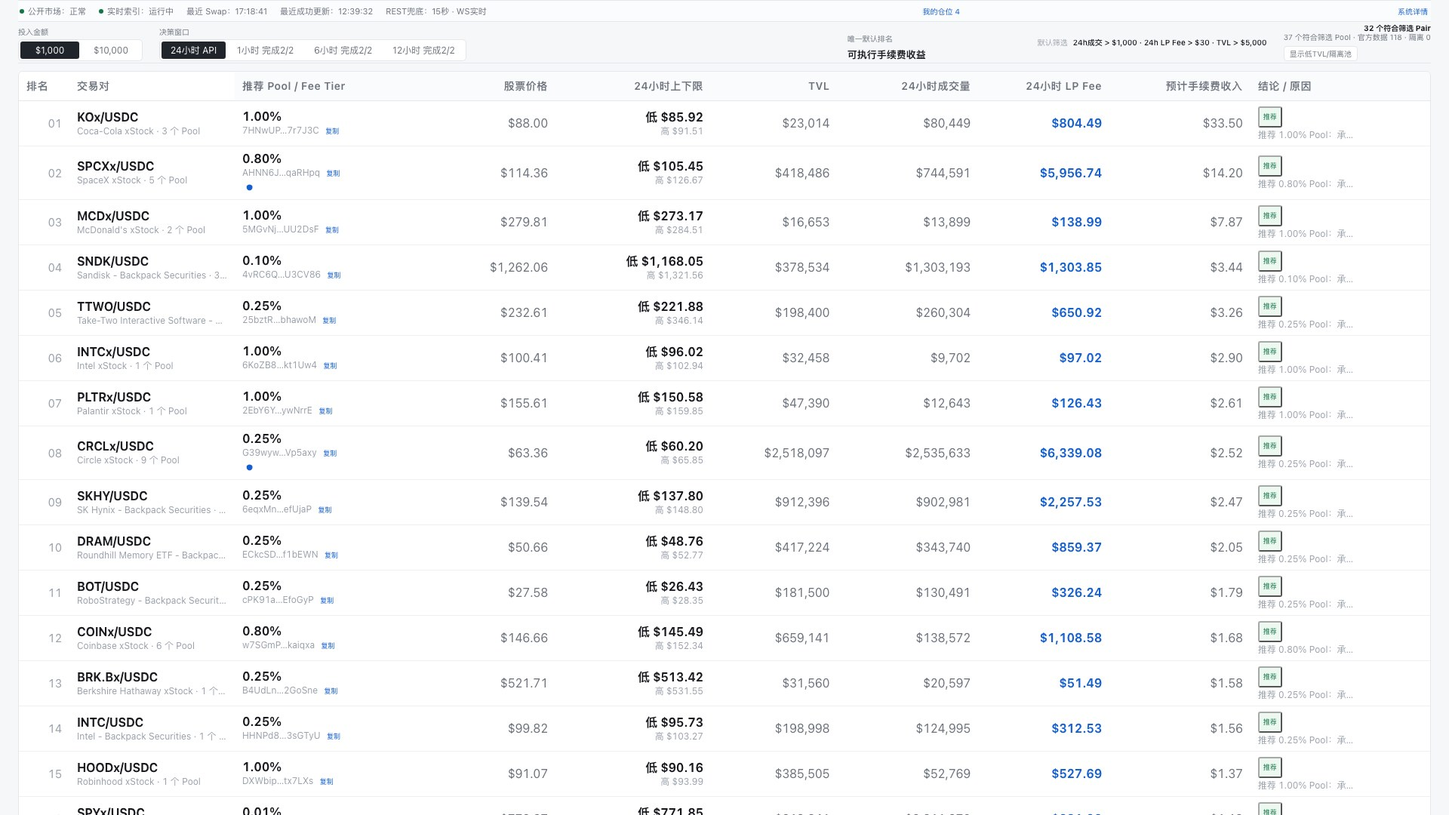
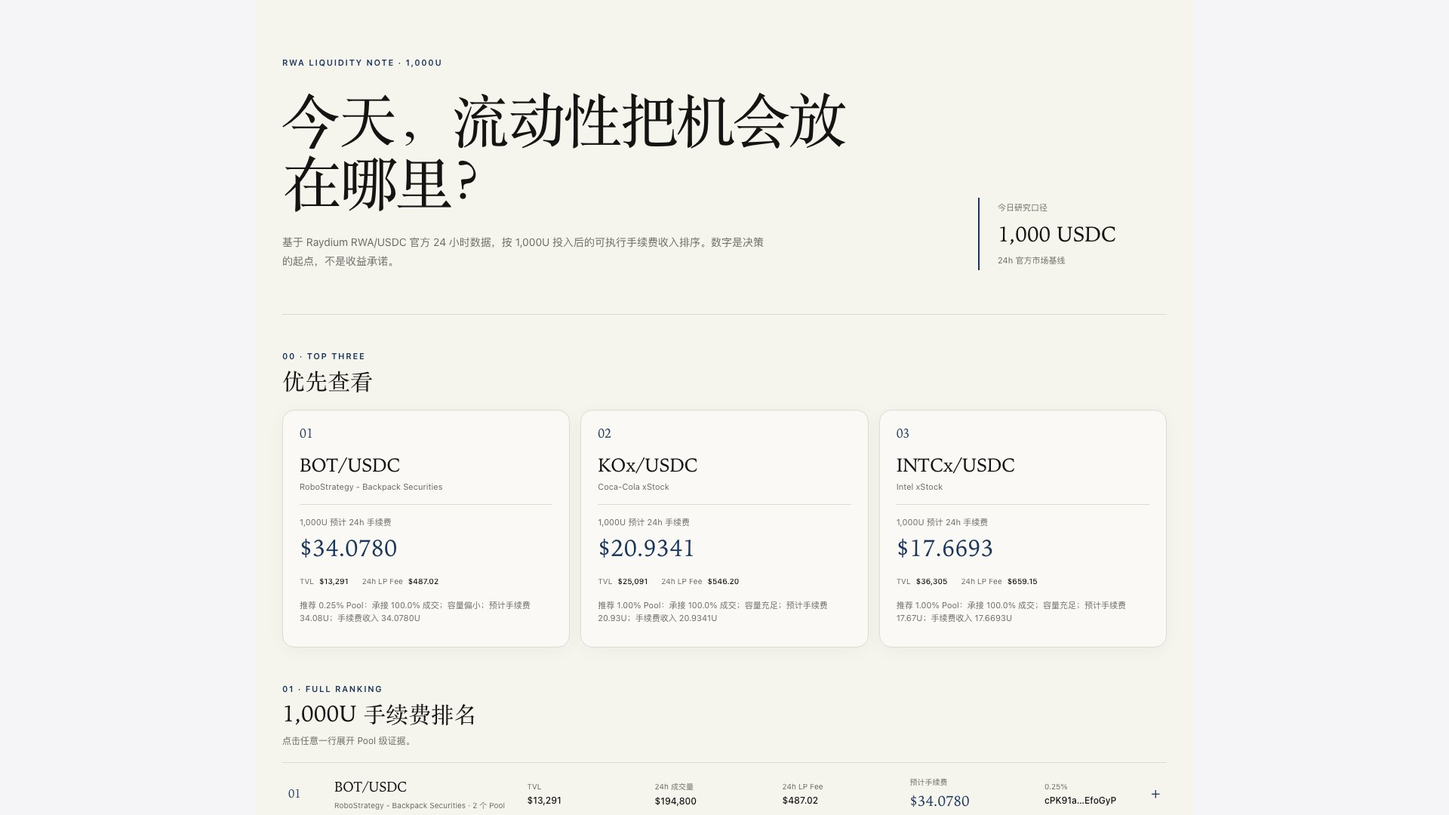
refactor ranking UI into mobile research note

diff --git a/app/dashboard-client.tsx b/app/dashboard-client.tsx
@@ -52,11 +52,6 @@ function shortAddress(value: string | null | undefined) {
   return `${value.slice(0, 6)}…${value.slice(-6)}`;
 }
 
-function clock(value: string | null | undefined) {
-  if (!value) return "暂无时间";
-  return new Intl.DateTimeFormat("zh-CN", { hour: "2-digit", minute: "2-digit", second: "2-digit", hour12: false }).format(new Date(value));
-}
-
 function decisionLabel(value: Decision) {
   return value === "RECOMMEND" ? "推荐" : value === "WATCH" ? "观察" : value === "REJECT" ? "放弃" : "短窗口回补中";
 }
@@ -113,33 +108,6 @@ function CopyButton({ value, label, testId, onCopied }: { value: string | null |
   return <button className="copy-button" data-testid={testId} title={value} onClick={(event) => { event.stopPropagation(); void copyText(value, () => { setCopied(true); onCopied?.(label); window.setTimeout(() => setCopied(false), 1400); }); }}>{copied ? "已复制" : label}</button>;
 }
 
-function StatusDot({ state }: { state: "good" | "warn" | "muted" }) {
-  return <i className={`terminal-dot ${state}`} aria-hidden="true" />;
-}
-
-function WindowButton({ view, active, onClick }: { view: RankingWindowStatus; active: boolean; onClick: () => void }) {
-  const suffix = view.key === "24h" && view.status === "COMPLETE"
-    ? " API"
-    : view.completedPools !== null && view.targetPools !== null
-      ? ` 完成${view.completedPools}/${view.targetPools}`
-      : view.progress !== null ? ` ${view.progress}%` : "";
-  const disabled = view.status === "UNAVAILABLE";
-  return <button className={`terminal-window ${active ? "active" : ""} ${disabled ? "disabled" : ""}`} disabled={disabled} onClick={onClick} title={disabled ? `${view.label}：等待数据源` : `${view.label}：${view.state} · ${view.universeLabel}${view.progress !== null ? ` · 时间覆盖 ${view.progress}%` : ""}`} data-testid={`window-${view.key}`}>{view.label}{suffix}</button>;
-}
-
-function StatusBar({ snapshot, lastSuccessfulRefresh, onSystem, onWallet }: { snapshot: DashboardSnapshot; lastSuccessfulRefresh: string | null; onSystem: () => void; onWallet: () => void }) {
-  return <div className="terminal-statusbar">
-    <span><StatusDot state={snapshot.snapshotSource === "LAST_KNOWN_GOOD" ? "warn" : "good"} />公开市场：{snapshot.snapshotSource === "LAST_KNOWN_GOOD" ? "缓存" : "正常"}</span>
-    <span><StatusDot state={snapshot.websocket.status === "在线" ? "good" : "warn"} />实时索引：{snapshot.websocket.status === "在线" ? "运行中" : "降级"}</span>
-    <span>最近 Swap：{clock(snapshot.lastSwap?.blockTime)}</span>
-    <span>最近成功更新：{clock(lastSuccessfulRefresh)}</span>
-    <span className="auto-refresh-status">REST兜底：15秒 · WS实时</span>
-    {snapshot.snapshotSource === "LAST_KNOWN_GOOD" ? <span className="cache-notice">更新失败，继续显示上次成功数据</span> : null}
-    <button className="system-button" onClick={onWallet} aria-label={snapshot.wallet.configured ? "修改或添加只读钱包" : undefined} data-testid="wallet-control">{snapshot.wallet.configured ? `我的仓位 ${snapshot.positions.length}` : "添加只读钱包"}</button>
-    <button className="system-button" onClick={onSystem}>系统详情</button>
-  </div>;
-}
-
 function MetricCell({ metric, coverage, empty = "等待模型输入" }: { metric: RankingMetric; coverage: RankingWindowStatus; empty?: string }) {
   const detail = metric.missing[0] ?? (coverage.key === "24h" ? empty : "回补中");
   return <DisplayValue value={metric.value} missing={detail} format={(value) => money(value as number)} className={metric.value === null ? "metric-unavailable" : "metric-ready"} />;
@@ -163,22 +131,34 @@ function PoolSubtable({ pair, positionPoolIds, onCopied, showNet }: { pair: Rank
   </div>;
 }
 
-function RankingRow({ pair, rank, expanded, onToggle, onEvidence, positionPoolIds, onCopied, showNet }: { pair: RankingPair; rank: number; expanded: boolean; onToggle: () => void; onEvidence: () => void; positionPoolIds: Set<string>; onCopied: (label: string) => void; showNet: boolean }) {
+function FeaturedOpportunity({ pair, rank, onEvidence }: { pair: RankingPair; rank: number; onEvidence: () => void }) {
   const pool = pair.recommendedPool ?? pair.allPools[0] ?? null;
-  const isRanked = rank > 0 && pool?.universeStatus === "ACTIVE_INDEXED" && (pair.estimatedFeeIncome.value !== null || Boolean(pool.lpFee24h !== null && pool.tvl !== null && pool.tvl > 0));
+  return <button className="kami-feature-card" onClick={onEvidence} data-testid={`featured-rank-${rank}`}>
+    <span className="kami-rank">0{rank}</span>
+    <span className="kami-feature-title"><strong>{pair.symbol}</strong><small>{pair.underlying}</small></span>
+    <span className="kami-feature-yield"><small>1,000U 预计 24h 手续费</small><strong>{money(pair.estimatedFeeIncome.value, 4)}</strong></span>
+    <span className="kami-feature-metrics"><span>TVL <b>{money(pair.tvl ?? pool?.tvl ?? null, 0)}</b></span><span>24h LP Fee <b>{money(pair.lpFee ?? pool?.lpFee ?? null, 2)}</b></span></span>
+    <span className="kami-feature-reason">{pair.shortReason}</span>
+  </button>;
+}
+
+function RankingListItem({ pair, rank, expanded, onToggle, onEvidence, positionPoolIds, onCopied, showNet }: { pair: RankingPair; rank: number; expanded: boolean; onToggle: () => void; onEvidence: () => void; positionPoolIds: Set<string>; onCopied: (label: string) => void; showNet: boolean }) {
+  const pool = pair.recommendedPool ?? pair.allPools[0] ?? null;
   const rowId = pair.symbol.replace(/[^a-zA-Z0-9]+/g, "-");
-  return <>
-    <tr className={`ranking-row ${expanded ? "expanded" : ""}`} onClick={onToggle} tabIndex={0} onKeyDown={(event) => { if (event.key === "Enter" || event.key === " ") { event.preventDefault(); onToggle(); } }} data-testid={`pair-row-${rowId}`}>
-      <td className="rank numeric">{isRanked ? String(rank).padStart(2, "0") : "—"}</td>
-      <td><strong>{pair.symbol}</strong><small>{pair.underlying} · {pair.allPools.length} 个 Pool</small></td>
-      <td>{pool ? <><strong>{pool.feeTier ?? "Fee Tier暂无"}</strong><small title={pool.poolAddress}>{shortAddress(pool.poolAddress)} <CopyButton value={pool.poolAddress} label="复制" testId={`main-copy-pool-${pool.poolAddress}`} onCopied={onCopied} /></small>{positionPoolIds.has(pool.poolAddress) ? <span className="position-icon" title="我的仓位" aria-label="我的仓位">●</span> : null}</> : <span>Pool地址暂无</span>}</td>
-      <td className="numeric">{stockPrice(pair.currentPrice ?? pool?.currentPrice ?? null)}</td><td className="numeric price-band-cell">{priceBand(pair.price24hLow ?? pool?.price24hLow ?? null, pair.price24hHigh ?? pool?.price24hHigh ?? null)}</td>
-      <td className="numeric">{money(pair.tvl ?? pool?.tvl ?? null, 0, "TVL暂无")}</td><td className="numeric">{money(pair.volume ?? pool?.volume ?? null, 0, pair.coverage.key === "24h" ? "成交量暂无" : "回补中")}</td><td className="numeric">{money(pair.lpFee ?? pool?.lpFee ?? null, 2, pair.coverage.key === "24h" ? "LP Fee暂无" : "回补中")}</td>
-      <td className="numeric"><MetricCell metric={pair.estimatedFeeIncome} coverage={pair.coverage} empty="未计算" /></td>
-      <td><button className={`verdict ${decisionClass(pair.decision)}`} onClick={(event) => { event.stopPropagation(); onEvidence(); }} data-testid={`decision-${rowId}`}>{decisionLabel(pair.decision)}</button><small className="row-reason" title={pair.shortReason}>{Array.from(pair.shortReason).slice(0, 18).join("")}</small></td>
-    </tr>
-    {expanded ? <tr className="expanded-row"><td colSpan={10}><PoolSubtable pair={pair} positionPoolIds={positionPoolIds} onCopied={onCopied} showNet={showNet} /></td></tr> : null}
-  </>;
+  return <article className={`kami-ranking-item ${expanded ? "expanded" : ""}`}>
+    <button className="kami-ranking-main ranking-row" onClick={onToggle} data-testid={`pair-row-${rowId}`}>
+      <span className="kami-list-rank">{rank > 0 ? String(rank).padStart(2, "0") : "—"}</span>
+      <span className="kami-list-asset"><strong>{pair.symbol}</strong><small>{pair.underlying} · {pair.allPools.length} 个 Pool</small></span>
+      <span className="kami-list-metric"><small>TVL</small><strong>{money(pair.tvl ?? pool?.tvl ?? null, 0)}</strong></span>
+      <span className="kami-list-metric"><small>24h 成交量</small><strong>{money(pair.volume ?? pool?.volume ?? null, 0)}</strong></span>
+      <span className="kami-list-metric"><small>24h LP Fee</small><strong>{money(pair.lpFee ?? pool?.lpFee ?? null, 2)}</strong></span>
+      <span className="kami-list-estimate"><small>预计手续费</small><strong>{money(pair.estimatedFeeIncome.value, 4)}</strong></span>
+      <span className="kami-list-pool"><small>{pool?.feeTier ?? "Fee Tier暂无"}</small><b>{shortAddress(pool?.poolAddress)}</b></span>
+      <span className="kami-list-arrow" aria-hidden="true">{expanded ? "−" : "+"}</span>
+    </button>
+    <div className="kami-list-reason"><span>{pair.shortReason}</span><button onClick={onEvidence} data-testid={`decision-${rowId}`}>查看依据</button></div>
+    {expanded ? <PoolSubtable pair={pair} positionPoolIds={positionPoolIds} onCopied={onCopied} showNet={showNet} /> : null}
+  </article>;
 }
 
 function EvidenceDrawer({ pair, onClose }: { pair: RankingPair; onClose: () => void }) {
@@ -194,85 +174,14 @@ function EvidenceDrawer({ pair, onClose }: { pair: RankingPair; onClose: () => v
   </aside></div>;
 }
 
-function WalletModal({ snapshot, onClose, onUpdated }: { snapshot: DashboardSnapshot; onClose: () => void; onUpdated: (snapshot: DashboardSnapshot) => void }) {
-  const [address, setAddress] = useState(snapshot.wallet.address ?? "");
-  const [busy, setBusy] = useState(false);
-  const [message, setMessage] = useState("");
-  const [error, setError] = useState("");
-  async function save() {
-    setBusy(true); setError(""); setMessage("");
-    try {
-      const response = await fetch("/api/wallet", { method: "POST", headers: { "content-type": "application/json" }, body: JSON.stringify({ address }) });
-      const payload = await response.json() as { error?: string; wallet?: { scanning?: boolean }; snapshot?: DashboardSnapshot };
-      if (!response.ok || !payload.snapshot) { setError(payload.error ?? "保存失败"); return; }
-      onUpdated(payload.snapshot);
-      if (payload.wallet?.scanning) setMessage("已保存，仓位扫描已在后台开始；稍后可点击重新扫描"); else { setMessage(`已保存，发现 ${payload.snapshot.positions.length} 个仓位`); onClose(); }
-    } catch { setError("钱包服务数据源不可用，请稍后重试"); } finally { setBusy(false); }
-  }
-  async function remove() {
-    setBusy(true); setError("");
-    try { const response = await fetch("/api/wallet", { method: "DELETE" }); const payload = await response.json() as { snapshot?: DashboardSnapshot }; if (payload.snapshot) { onUpdated(payload.snapshot); onClose(); } } catch { setError("钱包状态更新失败，请稍后重试"); } finally { setBusy(false); }
-  }
-  async function rescan() {
-    setBusy(true); setError("");
-    try { const response = await fetch("/api/wallet/rescan", { method: "POST" }); const payload = await response.json() as { error?: string; snapshot?: DashboardSnapshot }; if (!response.ok || !payload.snapshot) { setError(payload.error ?? "扫描失败"); return; } onUpdated(payload.snapshot); setMessage(`扫描完成，发现 ${payload.snapshot.positions.length} 个仓位`); } catch { setError("仓位扫描数据源不可用，请稍后重试"); } finally { setBusy(false); }
-  }
-  return <div className="modal-backdrop" onClick={onClose}><div className="wallet-modal" onClick={(event) => event.stopPropagation()}><div className="modal-title"><div><small>我的仓位（可选）</small><h2>{snapshot.wallet.configured ? "修改只读钱包" : "添加只读钱包"}</h2></div><button className="close-button" onClick={onClose} aria-label="关闭钱包弹窗">×</button></div><label htmlFor="wallet-address">公开 Solana 地址</label><input id="wallet-address" value={address} onChange={(event) => setAddress(event.target.value)} placeholder="输入 Base58 公钥地址" autoComplete="off" spellCheck={false} /><p className="wallet-safe-note">只读取公开链上仓位，不请求签名。不接受私钥或助记词。</p>{error ? <p className="form-error">{error}</p> : null}{message ? <p className="form-success">{message}</p> : null}<div className="modal-actions"><button className="primary-button" onClick={() => void save()} disabled={busy}>{busy ? "处理中…" : "保存并扫描"}</button><button className="secondary-button" onClick={onClose} disabled={busy}>取消</button>{snapshot.wallet.configured ? <><button className="secondary-button" onClick={() => void rescan()} disabled={busy}>重新扫描</button><button className="danger-button" onClick={() => void remove()} disabled={busy}>移除地址</button></> : null}</div></div></div>;
-}
-
-function SystemDrawer({ snapshot, onClose }: { snapshot: DashboardSnapshot; onClose: () => void }) {
-  const access = snapshot.localAccess;
-  const statusText = (key: string, value: string) => {
-    const map: Record<string, string> = {
-      PUBLIC_MARKET_STATUS: "公开市场",
-      SHORT_WINDOW_ANALYTICS_STATUS: "短窗口分析",
-      RPC_VERIFICATION_STATUS: "链上账户核验",
-      REALTIME_INDEXING_STATUS: "实时索引",
-      WALLET_POSITION_STATUS: "我的仓位",
-      NET_YIELD_STATUS: "净收益模型",
-    };
-    const values: Record<string, string> = {
-      PUBLIC_API_MARKET_READY: "已就绪",
-      SHORT_WINDOW_ANALYTICS_UNAVAILABLE: "正在补齐历史",
-      SHORT_WINDOW_ANALYTICS_READY: "已就绪",
-      RPC_VERIFICATION_UNAVAILABLE: "等待 RPC 核验",
-      RPC_VERIFICATION_DEGRADED: "部分核验",
-      RPC_VERIFICATION_PARTIAL: "部分核验",
-      REALTIME_INDEXING_AVAILABLE: "运行中",
-      REALTIME_INDEXING_DEGRADED: "降级运行",
-      WALLET_POSITION_OPTIONAL_CONFIGURED: "已配置（可选）",
-      WALLET_POSITION_OPTIONAL_NOT_CONFIGURED: "未配置（不影响公开市场）",
-      NET_YIELD_UNAVAILABLE: "尚未接入 IL 与滑点成本",
-      NET_YIELD_AVAILABLE: "已就绪",
-    };
-    if (key === "SHORT_WINDOW_ANALYTICS_STATUS" && value.includes("完成")) return `短窗口：${value}`;
-    return `${map[key] ?? key}：${values[value] ?? value}`;
-  };
-  return <div className="drawer-backdrop" onClick={onClose}><aside className="evidence-drawer system-drawer" onClick={(event) => event.stopPropagation()}><div className="drawer-title"><div><small>连接与数据状态</small><h2>系统详情</h2></div><button className="close-button" onClick={onClose} aria-label="关闭系统详情">×</button></div><div className="system-list">{Object.entries(snapshot.statusReport).map(([key, value]) => <div key={key}><span>{statusText(key, value)}</span></div>)}</div>{access ? <div className="lan-access"><strong>局域网访问地址</strong><div><code>{access.lanUrl ?? "未检测到局域网地址"}</code><CopyButton value={access.lanUrl} label="复制地址" onCopied={() => undefined} /></div>{access.lanUrl ? <img className="lan-qr" src={`https://api.qrserver.com/v1/create-qr-code/?size=160x160&data=${encodeURIComponent(access.lanUrl)}`} alt="局域网访问二维码" /> : null}<small>本机：{access.localUrl} · 需与 iPad 连接同一 Wi‑Fi。当前仅验证服务监听地址，真实 iPad 验收仍需现场设备完成。</small></div> : null}<div className="drawer-note">公开市场无需钱包；RPC、WebSocket或短窗口回补异常只会关闭依赖项，不会清空官方 API 市场数据。</div></aside></div>;
-}
-
-function ProgressDrawer({ snapshot, view, onClose }: { snapshot: DashboardSnapshot; view: TerminalWindow; onClose: () => void }) {
-  const coverage = snapshot.swapIndexer.windows[view];
-  const progress = coverage.timeCoverageRatio ?? coverage.coverageRatio ?? coverage.completeness;
-  const progressPercent = finite(progress) ? (progress > 1 ? progress : progress * 100) : null;
-  const completePools = coverage.completedPoolCount ?? null;
-  const targetPools = coverage.targetPoolCount ?? snapshot.discovery.candidatePoolCount;
-  const oldestCovered = coverage.oldestCoveredAt ?? coverage.oldestCoveredBlockTime ?? null;
-  return <div className="drawer-backdrop" onClick={onClose}><aside className="evidence-drawer progress-drawer" onClick={(event) => event.stopPropagation()}><div className="drawer-title"><div><small>窗口证据 · {WINDOWS.find((item) => item.key === view)?.label ?? view}</small><h2>{coverage.backfillStatus === "COMPLETE" || coverage.backfillStatus === "LIVE" ? "完整" : "回补进度"}</h2></div><button className="close-button" onClick={onClose} aria-label="关闭窗口进度">×</button></div><div className="progress-summary"><strong>{progressPercent === null ? "等待覆盖数据" : `${progressPercent.toFixed(1)}%`}</strong><span>{completePools === null ? "等待 Pool 进度" : `${completePools} / ${targetPools} 个 Pool 已到窗口边界`}</span></div><dl className="evidence-list"><div><dt>窗口范围</dt><dd>{coverage.windowStart ? `${clock(coverage.windowStart)} → ${clock(coverage.windowEnd)}` : "等待窗口边界"}</dd></div><div><dt>最老已覆盖</dt><dd>{oldestCovered ? clock(oldestCovered) : "等待回补"}</dd></div><div><dt>签名 / 交易</dt><dd>{number(coverage.signaturesDiscovered)} / {number(coverage.transactionsFetched)}</dd></div><div><dt>解析 Swap</dt><dd>{number(coverage.swapsParsed)} · 失败 {number(coverage.transactionsFailed)}</dd></div><div><dt>未识别指令</dt><dd>{number(coverage.unknownInstructions)} · Gap Slot {number(coverage.gapSlots)}</dd></div><div><dt>最近5分钟</dt><dd>{number(coverage.requestsLast5m)} 请求 · {number(coverage.successfulTransactionsLast5m)} 笔成功</dd></div><div><dt>当前吞吐</dt><dd>{coverage.transactionsPerMinute === null || coverage.transactionsPerMinute === undefined ? "等待吞吐数据" : `${coverage.transactionsPerMinute.toFixed(1)} 笔/分钟`} · 最近5分钟推进 {number(coverage.completedPoolsLast5m)}</dd></div><div><dt>ETA</dt><dd>{coverage.etaAt ? clock(coverage.etaAt) : "等待回补速度"}</dd></div></dl>{coverage.progressReason ? <div className="ranking-error">已暂停：{coverage.progressReason}</div> : null}<div className="drawer-note">窗口进度来自同一个 raw 12h 回补和 `pool_metrics_1m` 分钟事实层；完整零交易分钟显示真实 0，缺少分钟桶则显示等待回补。</div></aside></div>;
-}
-
 export default function DashboardClient({ initialSnapshot, initialRanking }: { initialSnapshot: DashboardSnapshot; initialRanking: RankingResponse }) {
-  const [snapshot, setSnapshot] = useState(initialSnapshot);
-  const [capital, setCapital] = useState<TerminalCapital>(1_000);
-  const [window, setWindow] = useState<TerminalWindow>("24h");
-  const [includeOfficialOnly, setIncludeOfficialOnly] = useState(false);
+  const snapshot = initialSnapshot;
+  const capital: TerminalCapital = 1_000;
+  const window: TerminalWindow = "24h";
+  const includeOfficialOnly = false;
   const [expandedPair, setExpandedPair] = useState<string | null>(null);
   const [evidencePairId, setEvidencePairId] = useState<string | null>(null);
-  const [walletOpen, setWalletOpen] = useState(false);
-  const [systemOpen, setSystemOpen] = useState(false);
-  const [progressWindow, setProgressWindow] = useState<TerminalWindow | null>(null);
   const [ranking, setRanking] = useState<RankingResponse | null>(initialRanking);
-  const [lastSuccessfulRefresh, setLastSuccessfulRefresh] = useState<string | null>(initialRanking.updatedAt);
   const [loading, setLoading] = useState(false);
   const [error, setError] = useState("");
   const [copiedMessage, setCopiedMessage] = useState("");
@@ -281,14 +190,10 @@ export default function DashboardClient({ initialSnapshot, initialRanking }: { i
 
   const rankingMatches = ranking?.capital === capital && ranking.window === window && (ranking.includeOfficialOnly ?? false) === includeOfficialOnly;
   const selectedStatus = rankingMatches ? ranking.windowStatus : snapshotWindowStatus(snapshot, window);
-  const tableStatus = rankingMatches && ranking.rankingWindow !== window ? ranking.rankingWindowStatus : selectedStatus;
-  const windowViews = useMemo(() => WINDOWS.map((item) => item.key === selectedStatus.key ? selectedStatus : snapshotWindowStatus(snapshot, item.key)), [snapshot, selectedStatus]);
   const pairs = rankingMatches ? ranking?.pairs ?? [] : [];
   const displayPairs = rankingMatches
     ? [...(ranking?.pairs ?? []), ...(ranking?.waitingPairs ?? [])]
     : [];
-  const filteredPairCount = rankingMatches ? ranking?.eligiblePairCount ?? pairs.length : snapshot.universe?.activePairCount ?? pairs.length;
-  const filteredPoolCount = rankingMatches ? ranking?.eligiblePoolCount ?? snapshot.universe?.activePoolCount ?? snapshot.publicMarket.poolCount : snapshot.universe?.activePoolCount ?? snapshot.publicMarket.poolCount;
   const evidencePair = displayPairs.find((pair) => pair.pairId === evidencePairId) ?? null;
   const positionPoolIds = useMemo(() => new Set(snapshot.positions.map((position) => position.poolAddress)), [snapshot.positions]);
 
@@ -307,7 +212,6 @@ export default function DashboardClient({ initialSnapshot, initialRanking }: { i
           rankingVersion.current = payload.dataVersion;
           setRanking(payload);
         }
-        setLastSuccessfulRefresh(new Date().toISOString());
         setError(payload.rankingStatus === "PARTIAL_DATA"
           ? payload.selectionNotice
           : payload.rankingStatus === "NO_ACTIVITY" ? "" : payload.window !== "24h" && payload.pairs.length === 0
@@ -335,49 +239,26 @@ export default function DashboardClient({ initialSnapshot, initialRanking }: { i
     };
   }, [capital, window, includeOfficialOnly]);
 
-  function changeCapital(next: TerminalCapital) {
-    if (next === capital) return;
-    setLoading(true); setError(""); setExpandedPair(null); setCapital(next);
-  }
-
-  function changeWindow(next: TerminalWindow) {
-    if (next === window) return;
-    setLoading(true); setError(""); setExpandedPair(null); setWindow(next);
-  }
-
-  function handleUpdated(next: DashboardSnapshot) {
-    setLoading(true); setSnapshot(next);
-  }
-
   function copied(label: string) {
     setCopiedMessage(`${label}已复制`);
     globalThis.setTimeout(() => setCopiedMessage(""), 1400);
   }
 
   const showNet = ranking?.rankingBasis === "NET_PROFIT";
-  const rankingLabel = ranking?.rankingBasis === "NET_PROFIT"
-    ? "可执行净收益"
-    : ranking?.rankingBasis === "LP_FEE_DENSITY" ? "24h LP Fee 密度" : "可执行手续费收益";
-  const rankingNote = ranking?.rankingStatus === "NO_ACTIVITY"
-    ? `${ranking.selectionNotice}；不生成所选窗口的虚假名次`
-    : ranking?.rankingStatus === "PARTIAL_DATA"
-      ? ranking.selectionNotice
-      : ranking?.rankingBasis === "NET_PROFIT"
-    ? "按预计净利润 USDC 降序"
-    : ranking?.rankingBasis === "LP_FEE_DENSITY" ? "部分事实字段缺失，按 LP Fee / TVL 降序" : "TVL 比例估算，未扣除区间外影响；净收益模型尚未完成";
   const showSelectionNotice = Boolean(rankingMatches && ranking && (ranking.rankingStatus !== "ACTIVE" || ranking.fallbackWindow));
   return <main className="terminal-shell">
-    <StatusBar snapshot={snapshot} lastSuccessfulRefresh={lastSuccessfulRefresh} onSystem={() => setSystemOpen(true)} onWallet={() => setWalletOpen(true)} />
-    <section className="terminal-controls"><div className="control-group"><span>投入金额</span><div className="control-buttons">{CAPITAL_OPTIONS.map((item) => <button key={item} className={capital === item ? "active" : ""} onClick={() => changeCapital(item)} data-testid={`capital-${item}`}>${item.toLocaleString("en-US")}</button>)}</div></div><div className="control-group"><span>决策窗口</span><div className="control-buttons">{windowViews.map((item) => <WindowButton key={item.key} view={item} active={window === item.key} onClick={() => { changeWindow(item.key); setProgressWindow(item.key); }} />)}</div></div><div className="ranking-basis"><span>唯一默认排名</span><strong>{rankingLabel}</strong><small>{rankingNote}</small></div><div className="ranking-filter-badge" data-testid="default-research-filters"><span>默认筛选</span><strong>24h成交 &gt; $1,000 · 24h LP Fee &gt; $30 · TVL &gt; $5,000</strong></div><div className="terminal-count"><strong>{filteredPairCount} 个符合筛选 Pair</strong><br /><small>{filteredPoolCount} 个符合筛选 Pool · 官方数据 {snapshot.universe?.officialOnlyPoolCount ?? 0} · 隔离 {snapshot.universe?.quarantinedPoolCount ?? 0}</small><button className={`universe-toggle ${includeOfficialOnly ? "active" : ""}`} onClick={() => { setIncludeOfficialOnly((value) => !value); setLoading(true); setExpandedPair(null); }} data-testid="include-official-only">{includeOfficialOnly ? "隐藏官方池" : "显示低TVL/隔离池"}</button></div></section>
+    <header className="kami-hero">
+      <span className="kami-overline">RWA LIQUIDITY NOTE · 1,000U</span>
+      <div className="kami-hero-grid"><div><h1>今天，流动性把机会放在哪里？</h1><p>基于 Raydium RWA/USDC 官方 24 小时数据，按 1,000U 投入后的可执行手续费收入排序。数字是决策的起点，不是收益承诺。</p></div><aside><span>今日研究口径</span><strong>1,000 USDC</strong><small>24h 官方市场基线</small></aside></div>
+    </header>
     {copiedMessage ? <div className="copy-toast" role="status">{copiedMessage}</div> : null}
-    {loading ? <div className="ranking-loading" data-testid="ranking-loading">正在刷新 {capital.toLocaleString("en-US")}U × {window} 排名</div> : null}
+    {loading ? <div className="ranking-loading" data-testid="ranking-loading">正在刷新 1,000U 排名</div> : null}
     {error ? <div className="ranking-error" data-testid="ranking-error">{error}</div> : null}
     {showSelectionNotice && ranking ? <div className={`window-selection-notice ${ranking.rankingStatus.toLowerCase()}`} data-testid="window-selection-notice"><strong>{ranking.selectionNotice}</strong>{ranking.fallbackWindow ? <span>排名依据：{ranking.rankingWindowStatus.label} · 不是 {ranking.windowStatus.label} 排名</span> : null}</div> : null}
-    <section className="terminal-table-wrap"><div className="table-scroll"><table className="terminal-table public-ranking-table"><colgroup><col className="col-rank" /><col className="col-pair" /><col className="col-pool" /><col className="col-price" /><col className="col-band" /><col className="col-tvl" /><col className="col-volume" /><col className="col-fee" /><col className="col-estimate" /><col className="col-verdict" /></colgroup><thead><tr><th>{rankingMatches && ranking?.fallbackWindow ? "参考排名" : "排名"}</th><th>交易对</th><th>推荐 Pool / Fee Tier</th><th>股票价格</th><th>24小时上下限</th><th>TVL</th><th>{tableStatus.label}成交量</th><th>{tableStatus.label} LP Fee</th><th>预计手续费收入</th><th>结论 / 原因</th></tr></thead><tbody>{displayPairs.map((pair) => <RankingRow key={pair.pairId} pair={pair} rank={pairs.findIndex((item) => item.pairId === pair.pairId) + 1} expanded={expandedPair === pair.pairId} onToggle={() => setExpandedPair((value) => value === pair.pairId ? null : pair.pairId)} onEvidence={() => setEvidencePairId(pair.pairId)} positionPoolIds={positionPoolIds} onCopied={copied} showNet={showNet} />)}</tbody></table></div></section>
+    {pairs.length > 0 ? <section className="kami-featured"><div className="kami-section-heading"><span>00 · TOP THREE</span><h2>优先查看</h2></div><div className="kami-feature-grid">{pairs.slice(0, 3).map((pair, index) => <FeaturedOpportunity key={pair.pairId} pair={pair} rank={index + 1} onEvidence={() => setEvidencePairId(pair.pairId)} />)}</div></section> : null}
+    <section className="kami-ranking"><div className="kami-section-heading"><span>01 · FULL RANKING</span><h2>1,000U 手续费排名</h2><p>点击任意一行展开 Pool 级证据。</p></div><div className="kami-ranking-list">{displayPairs.map((pair) => <RankingListItem key={pair.pairId} pair={pair} rank={pairs.findIndex((item) => item.pairId === pair.pairId) + 1} expanded={expandedPair === pair.pairId} onToggle={() => setExpandedPair((value) => value === pair.pairId ? null : pair.pairId)} onEvidence={() => setEvidencePairId(pair.pairId)} positionPoolIds={positionPoolIds} onCopied={copied} showNet={showNet} />)}</div></section>
     {!loading && displayPairs.length === 0 ? <div className="terminal-empty">{error || (selectedStatus.status === "UNAVAILABLE" ? "等待当前窗口数据源" : "等待可执行排名数据")}<small>{selectedStatus.reason ?? "官方 API 市场数据仍可在公开模式下使用"}</small></div> : null}
+    <footer className="kami-footer">数据来源：Raydium 官方 API · 预计值未扣除无常损失、进出滑点与再平衡成本。</footer>
     {evidencePair ? <EvidenceDrawer pair={evidencePair} onClose={() => setEvidencePairId(null)} /> : null}
-    {walletOpen ? <WalletModal snapshot={snapshot} onClose={() => setWalletOpen(false)} onUpdated={handleUpdated} /> : null}
-    {systemOpen ? <SystemDrawer snapshot={snapshot} onClose={() => setSystemOpen(false)} /> : null}
-    {progressWindow ? <ProgressDrawer snapshot={snapshot} view={progressWindow} onClose={() => setProgressWindow(null)} /> : null}
   </main>;
 }

diff --git a/app/globals.css b/app/globals.css
@@ -243,6 +243,96 @@ td small { display: block; max-width: 145px; margin-top: 4px; overflow: hidden; 
   .terminal-table col.col-verdict { width: 220px; }
 }
 
+/* Kami-inspired research note: warm paper, one ink accent, restrained depth. */
+.terminal-shell {
+  --terminal-bg: #f5f4ed;
+  --terminal-paper: #faf9f5;
+  --terminal-ink: #141413;
+  --terminal-muted: #6b6a64;
+  --terminal-faint: #918f87;
+  --terminal-line: #dedbd0;
+  --terminal-blue: #1b365d;
+  max-width: 1240px;
+  margin: 0 auto;
+  padding: 0 34px 60px;
+  background: var(--terminal-bg);
+  font-family: -apple-system, BlinkMacSystemFont, "Segoe UI", "PingFang SC", "Microsoft YaHei", sans-serif;
+}
+.kami-hero { padding: 72px 0 58px; border-bottom: 1px solid var(--terminal-line); }
+.kami-overline, .kami-section-heading > span { color: var(--terminal-blue); font-size: 11px; font-weight: 600; letter-spacing: .15em; }
+.kami-hero-grid { display: grid; grid-template-columns: minmax(0, 1fr) 250px; gap: 70px; align-items: end; margin-top: 26px; }
+.kami-hero h1, .kami-section-heading h2, .kami-feature-title strong, .kami-feature-yield strong, .kami-list-asset strong, .kami-list-estimate strong {
+  font-family: "Iowan Old Style", "Songti SC", STSong, Georgia, serif;
+  font-weight: 500;
+}
+.kami-hero h1 { max-width: 760px; margin: 0; font-size: clamp(44px, 6.2vw, 78px); line-height: 1.06; letter-spacing: -.045em; }
+.kami-hero p { max-width: 650px; margin: 28px 0 0; color: var(--terminal-muted); font-size: 14px; line-height: 1.75; }
+.kami-hero aside { display: grid; gap: 8px; padding: 5px 0 5px 24px; border-left: 2px solid var(--terminal-blue); }
+.kami-hero aside span, .kami-hero aside small { color: var(--terminal-muted); font-size: 11px; }
+.kami-hero aside strong { font-family: "Iowan Old Style", Georgia, serif; font-size: 28px; font-weight: 500; }
+.kami-featured, .kami-ranking { padding-top: 48px; }
+.kami-section-heading { display: grid; gap: 9px; margin-bottom: 20px; }
+.kami-section-heading h2 { margin: 0; font-size: 30px; line-height: 1.2; }
+.kami-section-heading p { margin: 0; color: var(--terminal-muted); font-size: 12px; }
+.kami-feature-grid { display: grid; grid-template-columns: repeat(3, minmax(0, 1fr)); gap: 14px; }
+.kami-feature-card { display: grid; gap: 17px; padding: 22px; border: 1px solid var(--terminal-line); border-radius: 16px; color: var(--terminal-ink); background: var(--terminal-paper); text-align: left; box-shadow: 0 4px 24px rgba(20,20,19,.04); }
+.kami-feature-card:hover { box-shadow: 0 0 0 1px var(--terminal-blue), 0 8px 30px rgba(20,20,19,.05); }
+.kami-rank { color: var(--terminal-blue); font: 500 16px/1 "Iowan Old Style", Georgia, serif; }
+.kami-feature-title { display: grid; gap: 5px; }
+.kami-feature-title strong { font-size: 25px; }
+.kami-feature-title small, .kami-feature-yield small { color: var(--terminal-muted); font-size: 11px; }
+.kami-feature-yield { display: grid; gap: 5px; padding-top: 15px; border-top: 1px solid var(--terminal-line); }
+.kami-feature-yield strong { color: var(--terminal-blue); font-size: 31px; font-variant-numeric: tabular-nums; }
+.kami-feature-metrics { display: flex; flex-wrap: wrap; gap: 8px 18px; color: var(--terminal-muted); font-size: 10px; }
+.kami-feature-metrics b { margin-left: 4px; color: var(--terminal-ink); font-weight: 500; }
+.kami-feature-reason { min-height: 42px; color: var(--terminal-muted); font-size: 11px; line-height: 1.55; }
+.kami-ranking-list { border-top: 1px solid var(--terminal-line); }
+.kami-ranking-item { border-bottom: 1px solid var(--terminal-line); }
+.kami-ranking-main { display: grid; grid-template-columns: 46px minmax(155px, 1.25fr) repeat(3, minmax(105px, .8fr)) minmax(120px, .85fr) 115px 24px; gap: 15px; align-items: center; width: 100%; padding: 18px 8px; border: 0; color: var(--terminal-ink); background: transparent; text-align: left; }
+.kami-ranking-main:hover { background: #faf9f5; }
+.kami-list-rank { color: var(--terminal-blue); font: 500 15px/1 "Iowan Old Style", Georgia, serif; }
+.kami-list-asset, .kami-list-metric, .kami-list-estimate, .kami-list-pool { display: grid; gap: 5px; min-width: 0; }
+.kami-list-asset strong { font-size: 18px; }
+.kami-list-asset small, .kami-list-metric small, .kami-list-estimate small, .kami-list-pool small { overflow: hidden; color: var(--terminal-muted); font-size: 10px; text-overflow: ellipsis; white-space: nowrap; }
+.kami-list-metric strong, .kami-list-pool b { overflow: hidden; font-size: 12px; font-weight: 500; text-overflow: ellipsis; white-space: nowrap; }
+.kami-list-estimate strong { color: var(--terminal-blue); font-size: 19px; font-variant-numeric: tabular-nums; }
+.kami-list-arrow { color: var(--terminal-blue); font: 400 21px/1 Georgia, serif; text-align: right; }
+.kami-list-reason { display: flex; justify-content: space-between; gap: 20px; padding: 0 40px 15px 69px; color: var(--terminal-muted); font-size: 11px; line-height: 1.55; }
+.kami-list-reason button { flex: 0 0 auto; padding: 0; border: 0; color: var(--terminal-blue); background: transparent; font-size: 11px; }
+.kami-ranking-item .pool-subtable { margin: 0 0 18px; border: 1px solid var(--terminal-line); border-radius: 10px; background: var(--terminal-paper); }
+.kami-footer { margin-top: 44px; padding-top: 18px; border-top: 1px solid var(--terminal-line); color: var(--terminal-muted); font-size: 10px; line-height: 1.6; }
+.ranking-loading, .ranking-error, .window-selection-notice { max-width: none; margin-top: 18px; }
+.evidence-drawer, .wallet-modal { background: var(--terminal-paper); }
+
+@media (max-width: 960px) {
+  .kami-hero-grid { grid-template-columns: 1fr; gap: 32px; }
+  .kami-hero aside { max-width: 270px; }
+  .kami-feature-grid { grid-template-columns: 1fr; }
+  .kami-feature-card { grid-template-columns: 36px 1fr auto; align-items: start; }
+  .kami-feature-yield { padding-top: 0; border-top: 0; text-align: right; }
+  .kami-feature-metrics, .kami-feature-reason { grid-column: 2 / -1; }
+  .kami-ranking-main { grid-template-columns: 38px minmax(145px, 1.2fr) repeat(2, minmax(100px, .8fr)) 125px 24px; }
+  .kami-ranking-main .kami-list-metric:nth-of-type(4), .kami-list-pool { display: none; }
+}
+
+@media (max-width: 680px) {
+  .terminal-shell { padding: 0 16px 40px; }
+  .kami-hero { padding: 44px 0 38px; }
+  .kami-hero h1 { font-size: 43px; }
+  .kami-hero p { margin-top: 20px; font-size: 13px; }
+  .kami-featured, .kami-ranking { padding-top: 38px; }
+  .kami-feature-card { display: grid; grid-template-columns: 32px 1fr; gap: 12px; padding: 18px; }
+  .kami-feature-yield, .kami-feature-metrics, .kami-feature-reason { grid-column: 2; text-align: left; }
+  .kami-feature-yield { padding-top: 13px; border-top: 1px solid var(--terminal-line); }
+  .kami-feature-yield strong { font-size: 28px; }
+  .kami-ranking-main { grid-template-columns: 32px minmax(0, 1fr) 112px 18px; gap: 10px; padding: 16px 2px; }
+  .kami-ranking-main .kami-list-metric, .kami-ranking-main .kami-list-pool { display: none; }
+  .kami-list-estimate { text-align: right; }
+  .kami-list-estimate strong { font-size: 17px; }
+  .kami-list-reason { align-items: start; padding: 0 2px 15px 44px; }
+  .kami-list-reason span { display: -webkit-box; overflow: hidden; -webkit-box-orient: vertical; -webkit-line-clamp: 2; }
+}
+
 /* Final accessibility and LAN hand-off overrides. */
 .terminal-shell { font-size: 16px; }
 .terminal-table { table-layout: fixed; font-variant-numeric: tabular-nums; }
@@ -946,3 +1036,7 @@ td { padding-top: 13px; padding-bottom: 13px; }
   .public-ranking-table td strong { font-size: 15px; }
   .public-ranking-table td small { font-size: 11px; }
 }
+
+/* Final precedence for the current Kami research-note surface. */
+.terminal-shell { max-width: 1240px; margin: 0 auto; padding: 0 34px 60px; background: #f5f4ed; color: #141413; }
+@media (max-width: 680px) { .terminal-shell { padding: 0 16px 40px; } }

diff --git a/README.md b/README.md
@@ -4,9 +4,9 @@
 
 ## 界面预览
 
-![公开市场决策终端](lp-decision-os-public.png)
+![1,000U 研究简报](terminal-e2e-1000u.jpg)
 
-![短窗口分析界面](lp-decision-os-short-window.png)
+![手机端研究简报](terminal-e2e-mobile.jpg)
 
 > GitHub 仓库用于在手机上查看代码、文档和界面快照。系统依赖常驻后端、Solana/Raydium 数据源与 SQLite，因此不是可直接托管在 GitHub Pages 的纯静态页面。
 
@@ -14,7 +14,7 @@
 
 [https://fengxiong111.github.io/lp-decision-os/](https://fengxiong111.github.io/lp-decision-os/)
 
-看板由 GitHub Actions 每 15 分钟读取 Raydium 官方 API 并刷新，展示 1,000U / 10,000U 的 24h 前三名与 Top 20。这是无需常驻服务器的近实时公开数据版；1h/6h/12h 逐笔回补仍需要运行本项目的后台 worker。
+看板由 GitHub Actions 每 15 分钟读取 Raydium 官方 API 并刷新，只展示 1,000U 的 24h 前三名与 Top 20。这是无需常驻服务器的近实时公开数据版；1h/6h/12h 逐笔回补仍需要运行本项目的后台 worker。
 
 Telegram 每小时前三名推送可在仓库 Actions secrets 中配置 `TELEGRAM_BOT_TOKEN` 和 `TELEGRAM_CHAT_ID` 后启用。
 
